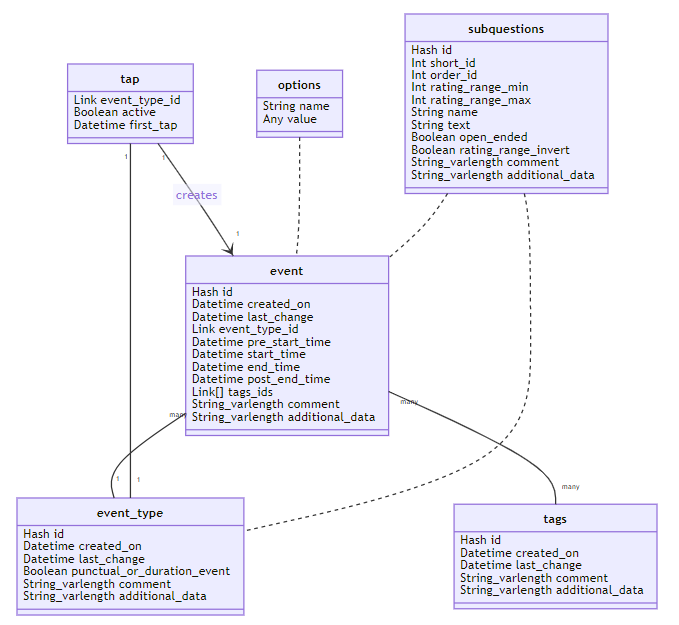
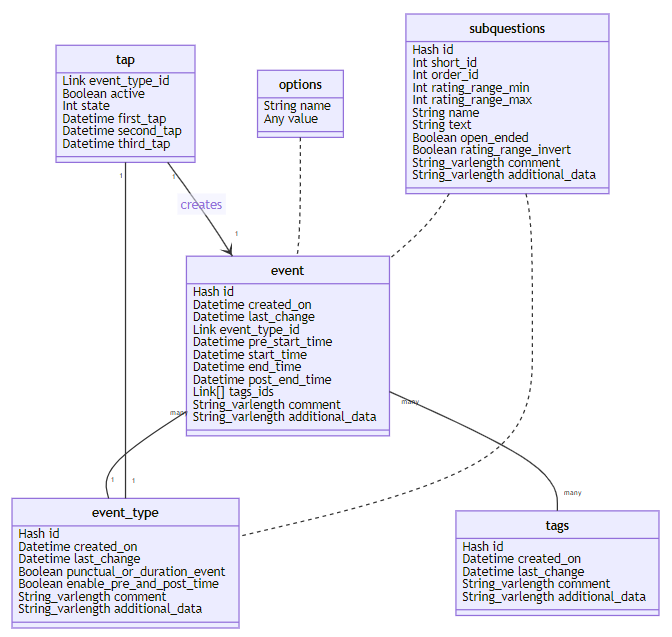
update specs to make pre and post time optionals + tap buttons support pre and post time

diff --git a/docs/circalog-format-spec.md b/docs/circalog-format-spec.md
@@ -6,7 +6,7 @@ The specification is intended as a working document for now, it is subject to ch
 
 The database can be implemented in SQLite. The app should implement a native SQLite <--> CSV import/export function, to natively support not only exports/backups but also imports and merging, if possible the CSV should be a single file to ease exports and backups by non technical users (can easily be sent via e-mail).
 
-Draft version: 0.6.1
+Draft version: 0.6.2
 
 ## SQL relationships diagram
 
@@ -42,6 +42,7 @@ event_type : Hash id %% unique key
 event_type : Datetime created_on
 event_type : Datetime last_change
 event_type : Boolean punctual_or_duration_event
+event_type : Boolean enable_pre_and_post_time
 event_type : String_varlength comment
 event_type : String_varlength additional_data
 
@@ -53,7 +54,10 @@ tags : String_varlength additional_data
 
 tap : Link event_type_id %% unique key
 tap : Boolean active
+tap : Int state
 tap : Datetime first_tap
+tap : Datetime second_tap
+tap : Datetime third_tap
 
 options : String name %% unique key
 options : Any value
@@ -145,6 +149,10 @@ Standard datetime format with timezone. Same as for table Events, this is to all
 
 Boolean: false = punctual, true = duration event. A punctual event only encodes a start_time, it is a single point in time. A duration event encodes both a start_time, end_time, pre_start_time and post_end_time, it represent an event that lasted for some time. Mandatory.
 
+#### enable_pre_and_post_time
+
+Boolean: false = only `start_time` and `end_time` will be displayed, true = `pre_start_time` and `post_start_time` will be displayed too. Tap buttons will also enable additional features such as holding to start recording the `pre_start_time`.
+
 #### comment
 
 String type of variable length. Stores any textual comment the user wish to specify. Can also be used to import additional meta-data from other sleep diary apps that do not fit in other fields. Optional field.
@@ -197,21 +205,41 @@ Link to event_type's id. SQL key. There should be no more than one entry in this
 
 Boolean. States if the event is currently being recorded (true) or not (false).
 
+#### state
+
+Integer. Counts the tap stage so far. Can be decremented if a tap happens during the global option `cancel_interval` (eg, tap to start recording, then tap again under 15min, this will cancel the recording, and decrement this counter). Cancelling only works for duration event types, for punctual events these can be deleted manually by the user in the History tab.
+
 #### first_tap
 
-Datetime with timezone standard format. Records when the first tap happened. For punctual event types, the `event` record can be created asap and this entry can be deleted (or just left there lingering). For duration event types, the `event` record will be created after the second tap and by retrieving data in this entry. It's also possible to implement a feature to cancel the entry if the second tap happens too short after the first tap, eg, 15min (this should be a user definable option).
+Datetime with timezone standard format. Records when the first tap happened. For punctual event types, the `event` record can be created asap without even creating an entry here. For duration event types, the `event` record will be created after the second tap (or fourth tap if `enable_pre_and_post_time == true`) and by retrieving data in this entry. It's also possible to implement a feature to cancel the entry using a global option `cancel_interval` if the second tap happens too short after the first tap, eg, 15min (this should be a user definable option).
+
+#### second_tap
+
+Datetime with timezone standard format. Records when the second tap happened. This is only used when the `event_type` has a `enable_pre_and_post_time == true`.
+
+#### third_tap
+
+Datetime with timezone standard format. Records when the third tap happened. This is only used when the `event_type` has a `enable_pre_and_post_time == true`.
 
 ### Table: options
 
-This table stores the app options.
+This table stores the app global options, such as `cancel_interval`.
 
 #### name
 
-Name of the option. SQL key.
+Name of the option. SQL key. The name can be translated using language files outside of the SQL database, using the `option.name` as a key to find the translation.
 
 #### value
 
 Multi types. Stores the value for the option.
+
+#### description
+
+String of variable length. Describes what the field is about. This could also be stored in language files instead of the SQL database, by using placeholders such as `{option-name-description}`.
+
+#### tooltip
+
+String of variable length. More help about the field's purpose. This could also be stored in language files instead of the SQL database, by using placeholders such as `{option-name-tooltip}`.
 
 #### (WIP) Table: subquestions
 
